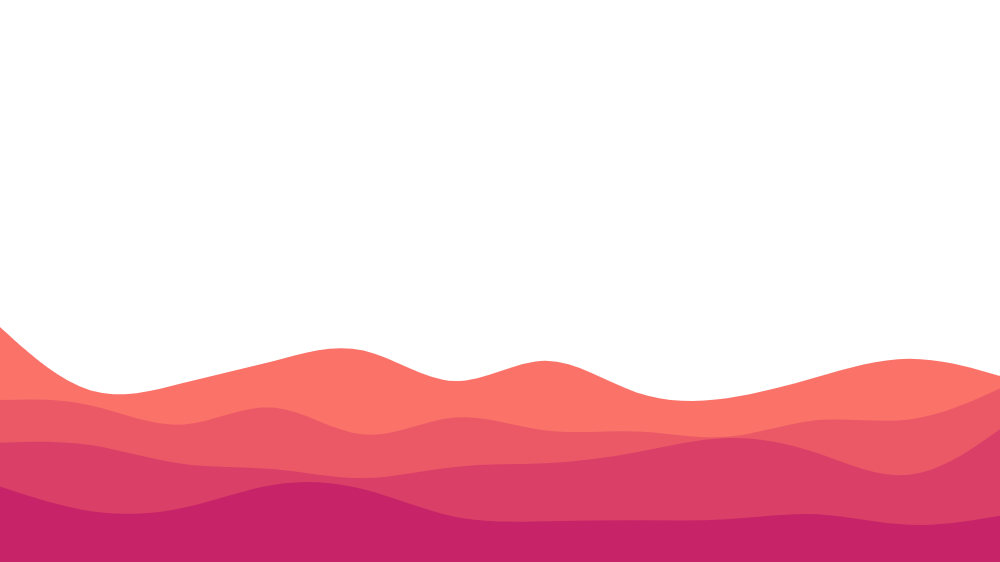
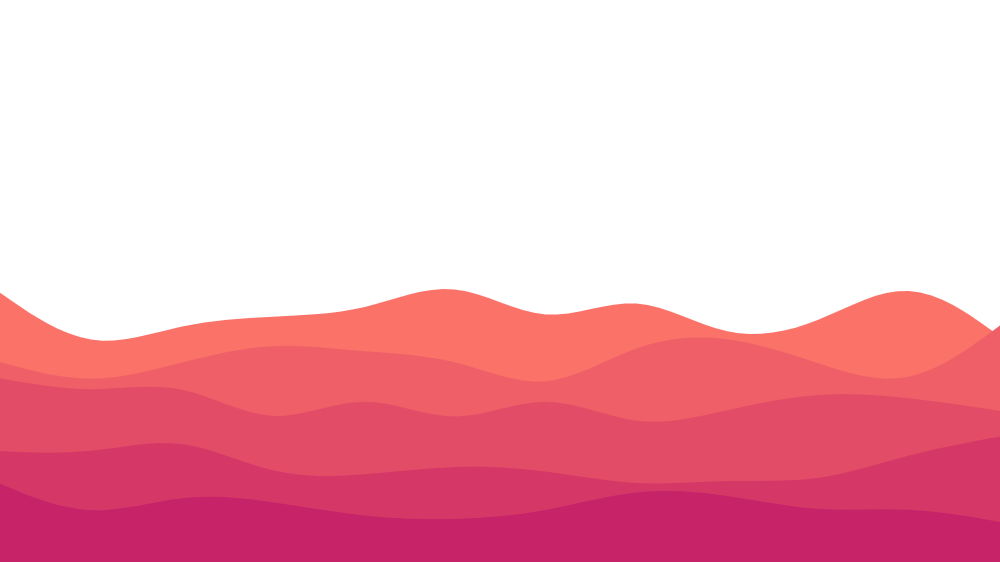
Add structure to main page

diff --git a/homepage.html b/homepage.html
@@ -21,18 +21,6 @@
 		<link rel="stylesheet" href="./StyleSheet/waves.css" />
 		<title>Are you Cyber Safe?</title>
 	</head>
-	<style>
-		.spacer {
-			aspect-ratio: 960/300;
-			width: 100%;
-			background-repeat: no-repeat;
-			background-position: center;
-			background-size: cover;
-		}
-		.layer1 {
-			background-image: url(./Assets/waves.svg);
-		}
-	</style>
 	<body>
 		<nav class="navbar navbar-expand-xl fixed-top">
 			<div class="container-fluid">
@@ -96,58 +84,50 @@
 				</div>
 			</div>
 		</nav>
-		<div class="page_container">
-			<div class="head_container">
-				<h1 class="gradient_text">Cyber Safety</h1>
-				<h1>Awareness</h1>
+		<div class="division1">
+			<div class="quizbutton">
+				<h2>Are you cyber safe ?</h2>
+				<a href="./quiz.html"><button class="button but1">Quiz</button></a>
 			</div>
-			<div class="cont2">
-				<div class="quizbutton">
-					<h2>Are you cyber safe ?</h2>
-					<a href="./quiz.html"><button class="button but1">Quiz</button></a>
-				</div>
-				<p id="bruh">Take this quiz to find out</p>
-				<br />
-				<br />
-				<h3>What is cyber safety ?</h3>
-				<p>
-					Cyber Safety is to be safe on the internet and is the act of
-					maximizing a user's awareness of personal safety and security risks to
-					private information and property associated with using the internet,
-					and the self-protection from computer crime
-				</p>
-			</div>
-			<div class="spacer layer1"></div>
-			<div class="cont3">
-				<h3>What are Cyber Threats ?</h3>
-				<p>
-					A cyber or cybersecurity threat is a malicious act that seeks to
-					damage data, steal data, or disrupt digital life in general. Cyber
-					threats include computer viruses, data breaches, Denial of Service
-					(DoS) attacks, and other attack vectors. Cyber threats also refer to
-					the possibility of a successful cyber attack that aims to gain
-					unauthorized access, damage, disrupt, or steal an information
-					technology asset, computer network, intellectual property, or any
-					other form of sensitive data. Cyber threats can come from within an
-					organization by trusted users or from remote locations by unknown
-					parties.
-				</p>
-				<h3>Uhh ... in English ?</h3>
-				<p>
-					Lets illustrate this with a few examples. An attacker can phish you
-					into giving them your login information. With your login information,
-					they may harm your account or use your data. UPI scams, viruses like
-					Morris Worm, nimda, ILOVEYOU, trojans etc are also some examples of a
-					threat. A popular example is in the 2020 pandemic, a lot of webcams
-					were hacked.
-				</p>
-				<h3>So, How can I be safe in the digital age ?</h3>
-				<p>Don't worry, we've got you covered.</p>
-				<div class="cardscontainer">
-					<div class="cards"></div>
-					<div class="cards"></div>
-					<div class="cards"></div>
-				</div>
+			<p id="bruh">Take this quiz to find out</p>
+			<br />
+			<br />
+			<h3>What is cyber safety ?</h3>
+			<p>
+				Cyber Safety is to be safe on the internet and is the act of maximizing
+				a user's awareness of personal safety and security risks to private
+				information and property associated with using the internet, and the
+				self-protection from computer crime
+			</p>
+		</div>
+		<img style="width: 100%" src="./Assets/waves.png" />
+		<div class="division2">
+			<h3>What are Cyber Threats ?</h3>
+			<p>
+				A cyber or cybersecurity threat is a malicious act that seeks to damage
+				data, steal data, or disrupt digital life in general. Cyber threats
+				include computer viruses, data breaches, Denial of Service (DoS)
+				attacks, and other attack vectors. Cyber threats also refer to the
+				possibility of a successful cyber attack that aims to gain unauthorized
+				access, damage, disrupt, or steal an information technology asset,
+				computer network, intellectual property, or any other form of sensitive
+				data. Cyber threats can come from within an organization by trusted
+				users or from remote locations by unknown parties.
+			</p>
+			<h3>Uhh ... in English ?</h3>
+			<p>
+				Lets illustrate this with a few examples. An attacker can phish you into
+				giving them your login information. With your login information, they
+				may harm your account or use your data. UPI scams, viruses like Morris
+				Worm, nimda, ILOVEYOU, trojans etc are also some examples of a threat. A
+				popular example is in the 2020 pandemic, a lot of webcams were hacked.
+			</p>
+			<h3>So, How can I be safe in the digital age ?</h3>
+			<p>Don't worry, we've got you covered.</p>
+			<div class="cardscontainer">
+				<div class="cards"></div>
+				<div class="cards"></div>
+				<div class="cards"></div>
 			</div>
 		</div>
 	</body>

diff --git a/StyleSheet/homepage.css b/StyleSheet/homepage.css
@@ -1,46 +1,6 @@
-.page_container {
-	width: 100vw;
-	height: 100vmax;
-	display: flex;
-	flex-flow: row wrap;
-	column-gap: 10vw;
+.division1 {
 	background-image: linear-gradient(to bottom right, #239295, #002233);
-}
-.head_container {
-	display: flex;
-	margin-top: 9vh;
-	flex-direction: column;
-	min-width: 500px;
-	min-height: 280px;
-	height: 35vw;
-	width: 50vw;
-	justify-content: center;
-	align-items: center;
-	background-image: url("./Assets/blob.gif");
-	background-repeat: no-repeat;
-	background-position: center;
-	background-size: 112%;
-	overflow: hidden;
-}
-.gradient_text {
-	font-size: max(4vw, 35px);
-	background: linear-gradient(to right, #cf23cf, #ca1313, #cf23cf);
-	-webkit-background-clip: text;
-	background-clip: text;
-	-webkit-text-fill-color: transparent;
-}
-h1 {
-	display: flex;
-	background: none;
-}
-.cont2 {
-	display: flex;
-	padding-top: 20vh;
-	height: 60vh;
-	width: 33vw;
-	flex-direction: column;
-	min-width: 300px;
-	min-height: 450px;
+	padding-top: 10%;
 }
 .button {
 	color: white;
@@ -54,15 +14,6 @@ h1 {
 	width: 130px;
 	height: 35px;
 	margin-bottom: 4px;
-}
-.cont3 {
-	width: 100vw;
-	height: auto;
-	margin-left: 5vw;
-	margin-right: 5vw;
-}
-p {
-	font-size: large;
 }
 .cardscontainer {
 	display: flex;
